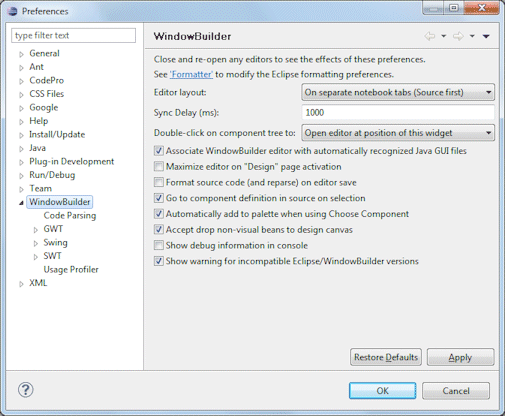
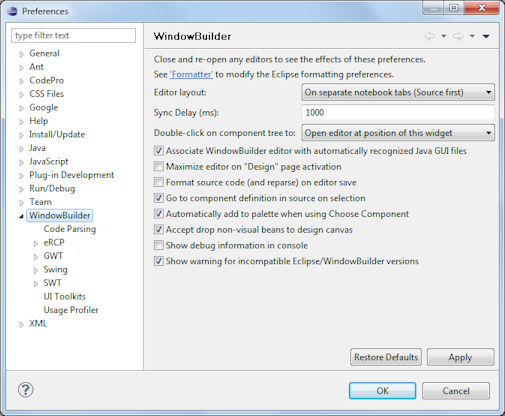
added UI Toolkit preference docs

diff --git a/org.eclipse.wb.doc.user/html/preferences/preferences_uitoolkits.html b/org.eclipse.wb.doc.user/html/preferences/preferences_uitoolkits.html
@@ -1,0 +1,45 @@
+<html>
+
+<head>
+<title>Preferences - UI Toolkits</title>
+<link href="../../book.css" rel="stylesheet" type="text/css">
+</head>
+
+<body>
+
+<table border="0" cellpadding="0" cellspacing="0" width="700">
+  <tr>
+    <td><h1>Preferences - UI Toolkits</h1>
+    <p><img src="images/preferences_uitoolkits.png" width="495" height="464"></p>
+      <p>This page is used to control various <strong>UI Toolkits</strong> options.</p>
+	<p>WindowBuilder is designed with a plugable system to support creating user 
+	interfaces in different UI toolkits. The available toolkits include SWT, 
+	Swing, and the Google Web Toolkit (GWT).<br>
+	<br>
+	The preference page shows the available toolkits and indicates which ones 
+	are already installed. The list of available toolkits is refreshed from the 
+	Eclipse servers when the preference page is opened. To install a new UI 
+	toolkit into WindowBuilder, select the desired toolkit and click the <strong>
+	Install Toolkits...</strong> button. WindowBuilder will verify that the 
+	toolkit's update site is live and then hand off the installation process to 
+	the standard Eclipse install dialog.</p>
+	<p><img src="images/install_toolkit.png" width="568" height="345"></p>
+	<p>Installed tookits may be uninstalled using he <strong>Uninstall Toolkit</strong> 
+	button.</p>
+	<p>The <strong>Show uninstalled toolkits in the new wizard dialog</strong> 
+	determines whether uninstalled toolkits show up with a placeholder in the
+	<strong>New Wizard</strong> under the <strong>WindowBuilder</strong> 
+	category.</p>
+	<p>
+	<img src="images/new_wizard_uninstalled_toolkit1.png" width="365" height="474">&nbsp;</p>
+	<p>Selecting an uninstalled toolkit and clicking <strong>Next</strong> will 
+	present the user with the option of installing editing support for that 
+	toolkit. Clicking Finish will hand off the installation process to the 
+	standard Eclipse install dialog as shown above.</p>
+	<p>
+	<img src="images/new_wizard_uninstalled_toolkit2.png" width="452" height="272">&nbsp;</p>
+      </td>
+  </tr>
+</table>
+</body>
+</html>

diff --git a/org.eclipse.wb.doc.user/html/preferences/index.html b/org.eclipse.wb.doc.user/html/preferences/index.html
@@ -1,5 +1,11 @@
 <html><head><title>Preferences - WindowBuilder</title>
 <link href="../../book.css" rel="stylesheet" type="text/css" />
+<style type="text/css">
+.style1 {
+				font-size: medium;
+				font-weight: bold;
+}
+</style>
 </head>
 <body><h1>Preferences - WindowBuilder</h1>
 <table border="0" width="1000" cellspacing="0" cellpadding="0">
@@ -7,7 +13,8 @@
 		<td><img src="images/preferences_windowbuilder.png">
 		<p>Here is the list of core preference pages:</p><ul>
         <li><b><font size="4"><a href="preferences_code_parsing.html">Code Parsing</a></font></b></li>
-		<li><font size="4"><b><a href="preferences_usage_profiler.html">Usage Profiler</a></b></font></li>
+		<li class="style1"><a href="preferences_uitoolkits.html">U<font size="4">I 
+		Toolkits</font></a></li>
       </ul>
       <p>Preferences maybe <a href="preferences_export.html">exported and imported</a> using the Eclipse Preference Export/Import facility.</p>
 
@@ -88,7 +95,7 @@
       <p>This preference controls whether the tool shows a version warning when 
 		there is a mismatch between the version of the tool you are using and 
 		the version of Eclipse you are using. In general, a version of 
-		the tool built for Eclipse 3.4 will not work with Eclipse 3.6 and vice versa. In 
+		the tool built for Eclipse 3.4 will not work with Eclipse 3.7 and vice versa. In 
 		some situations, a newer milestone or integration build will work with 
 		the latest build, so this preference gives you the ability to 
 		suppress the unnecessary and distracting warning in those cases.
